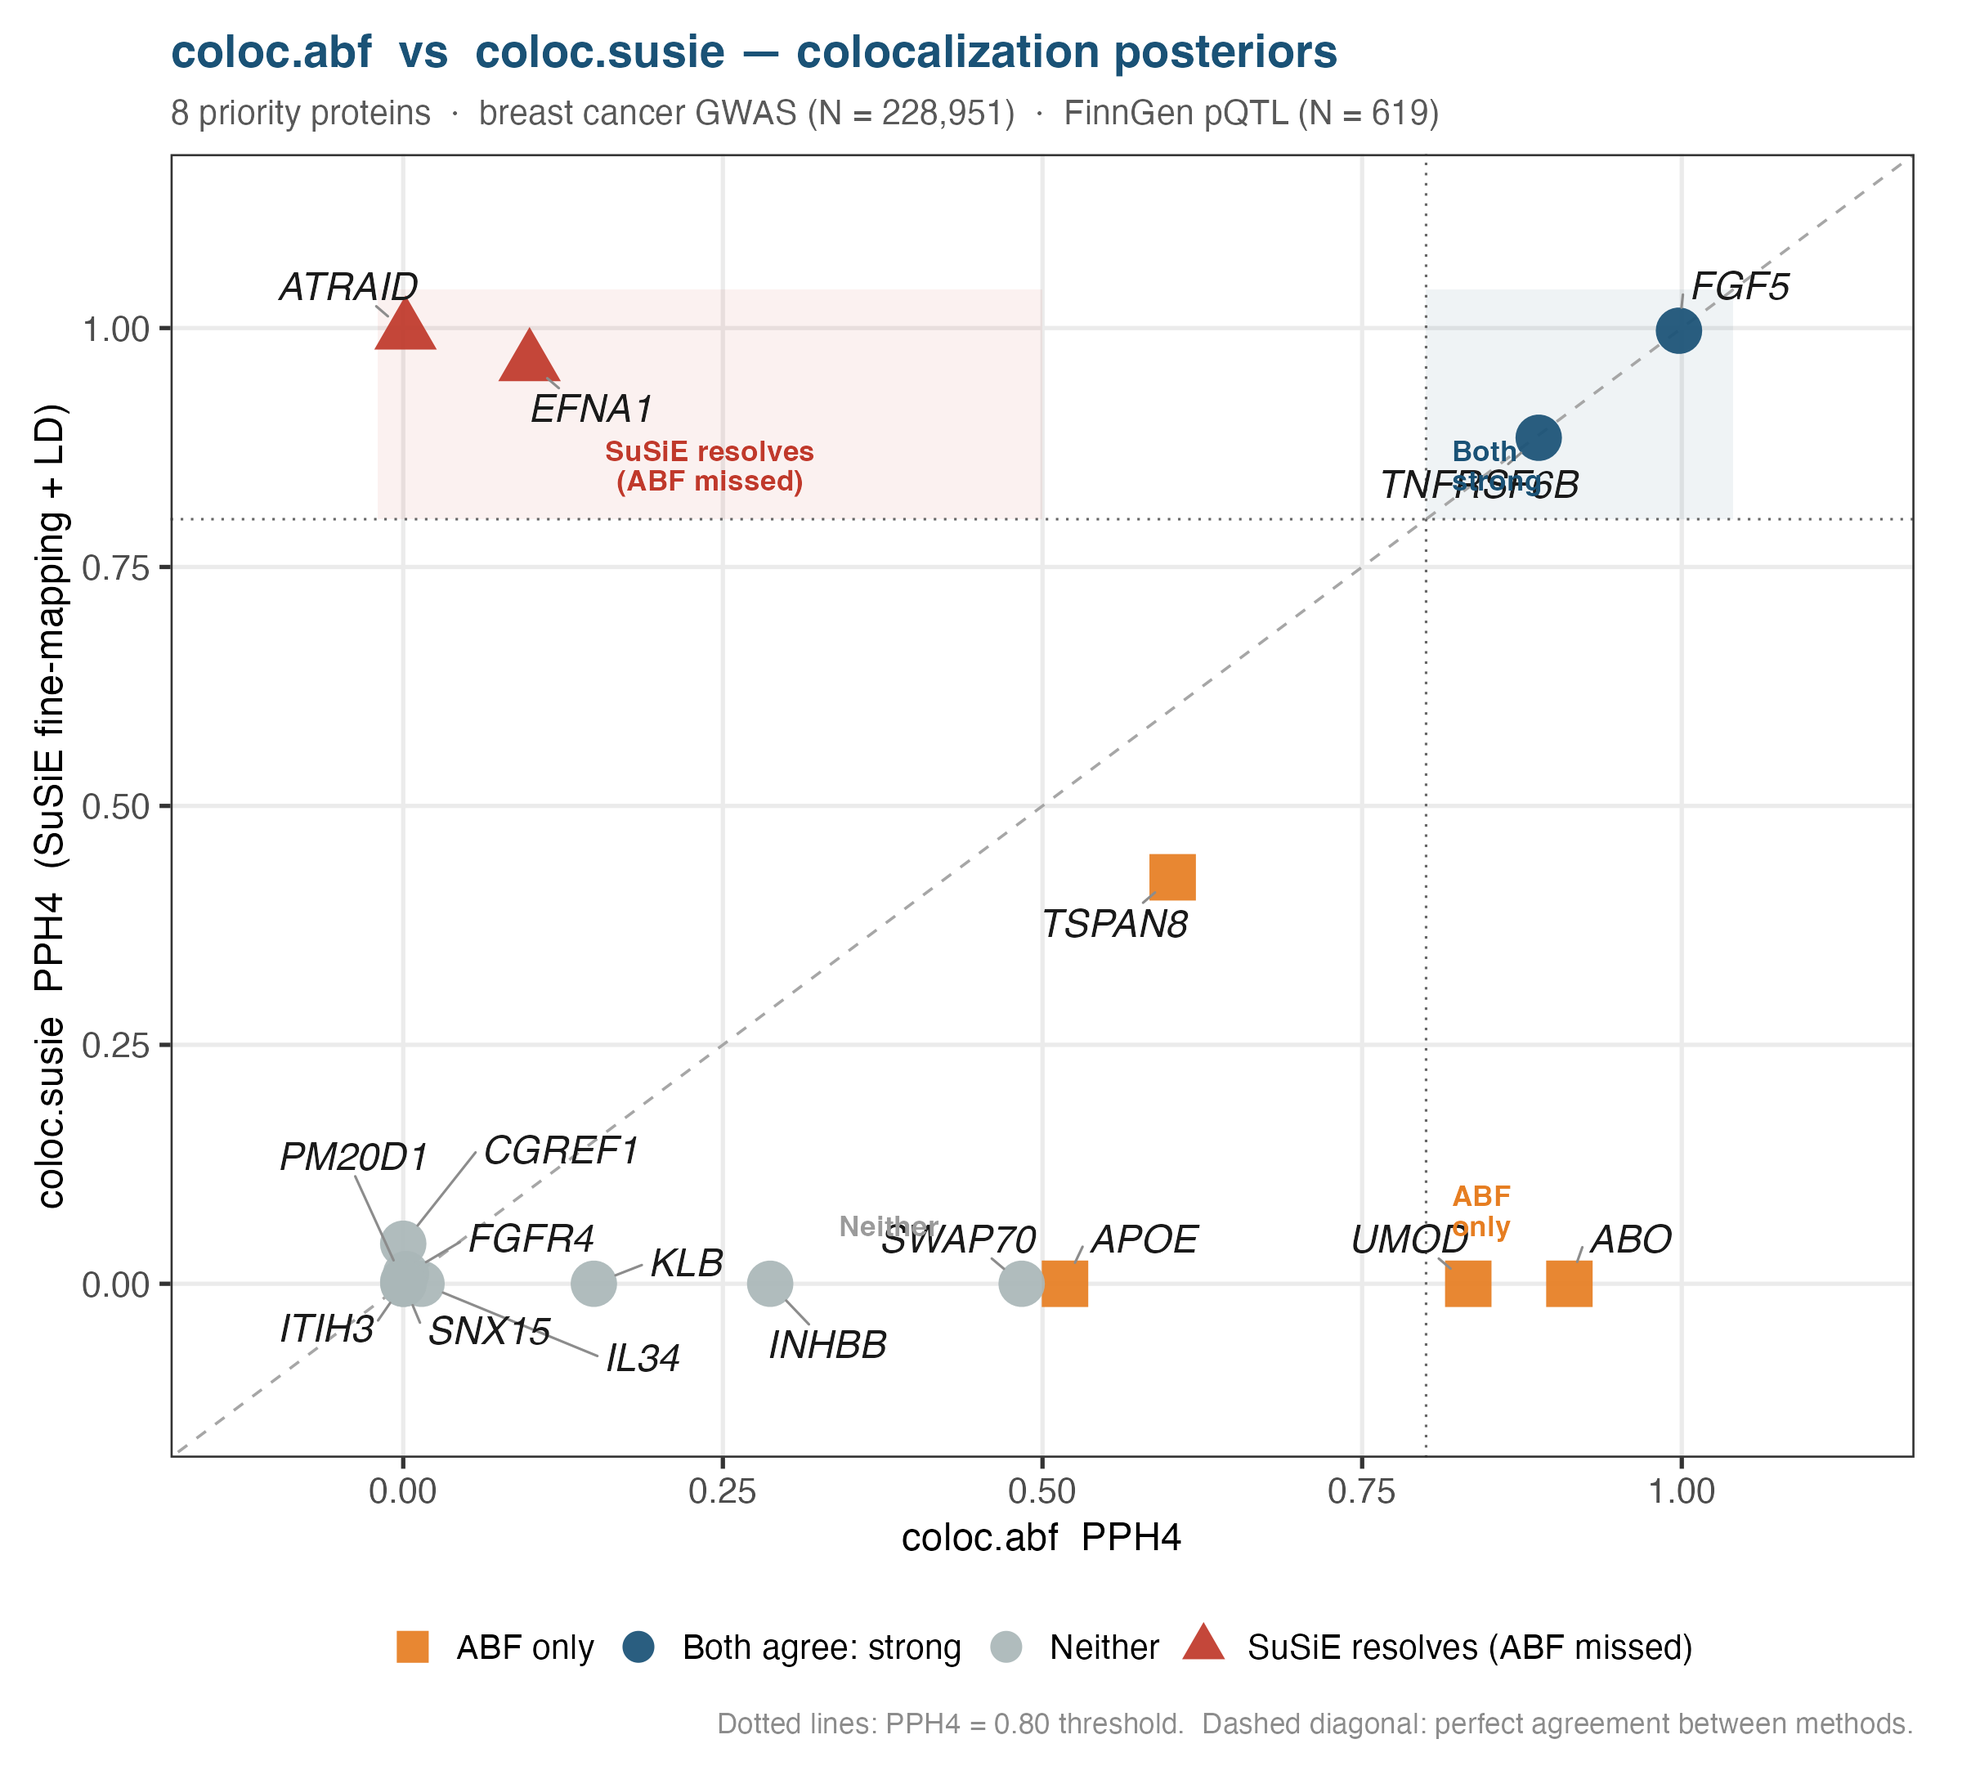
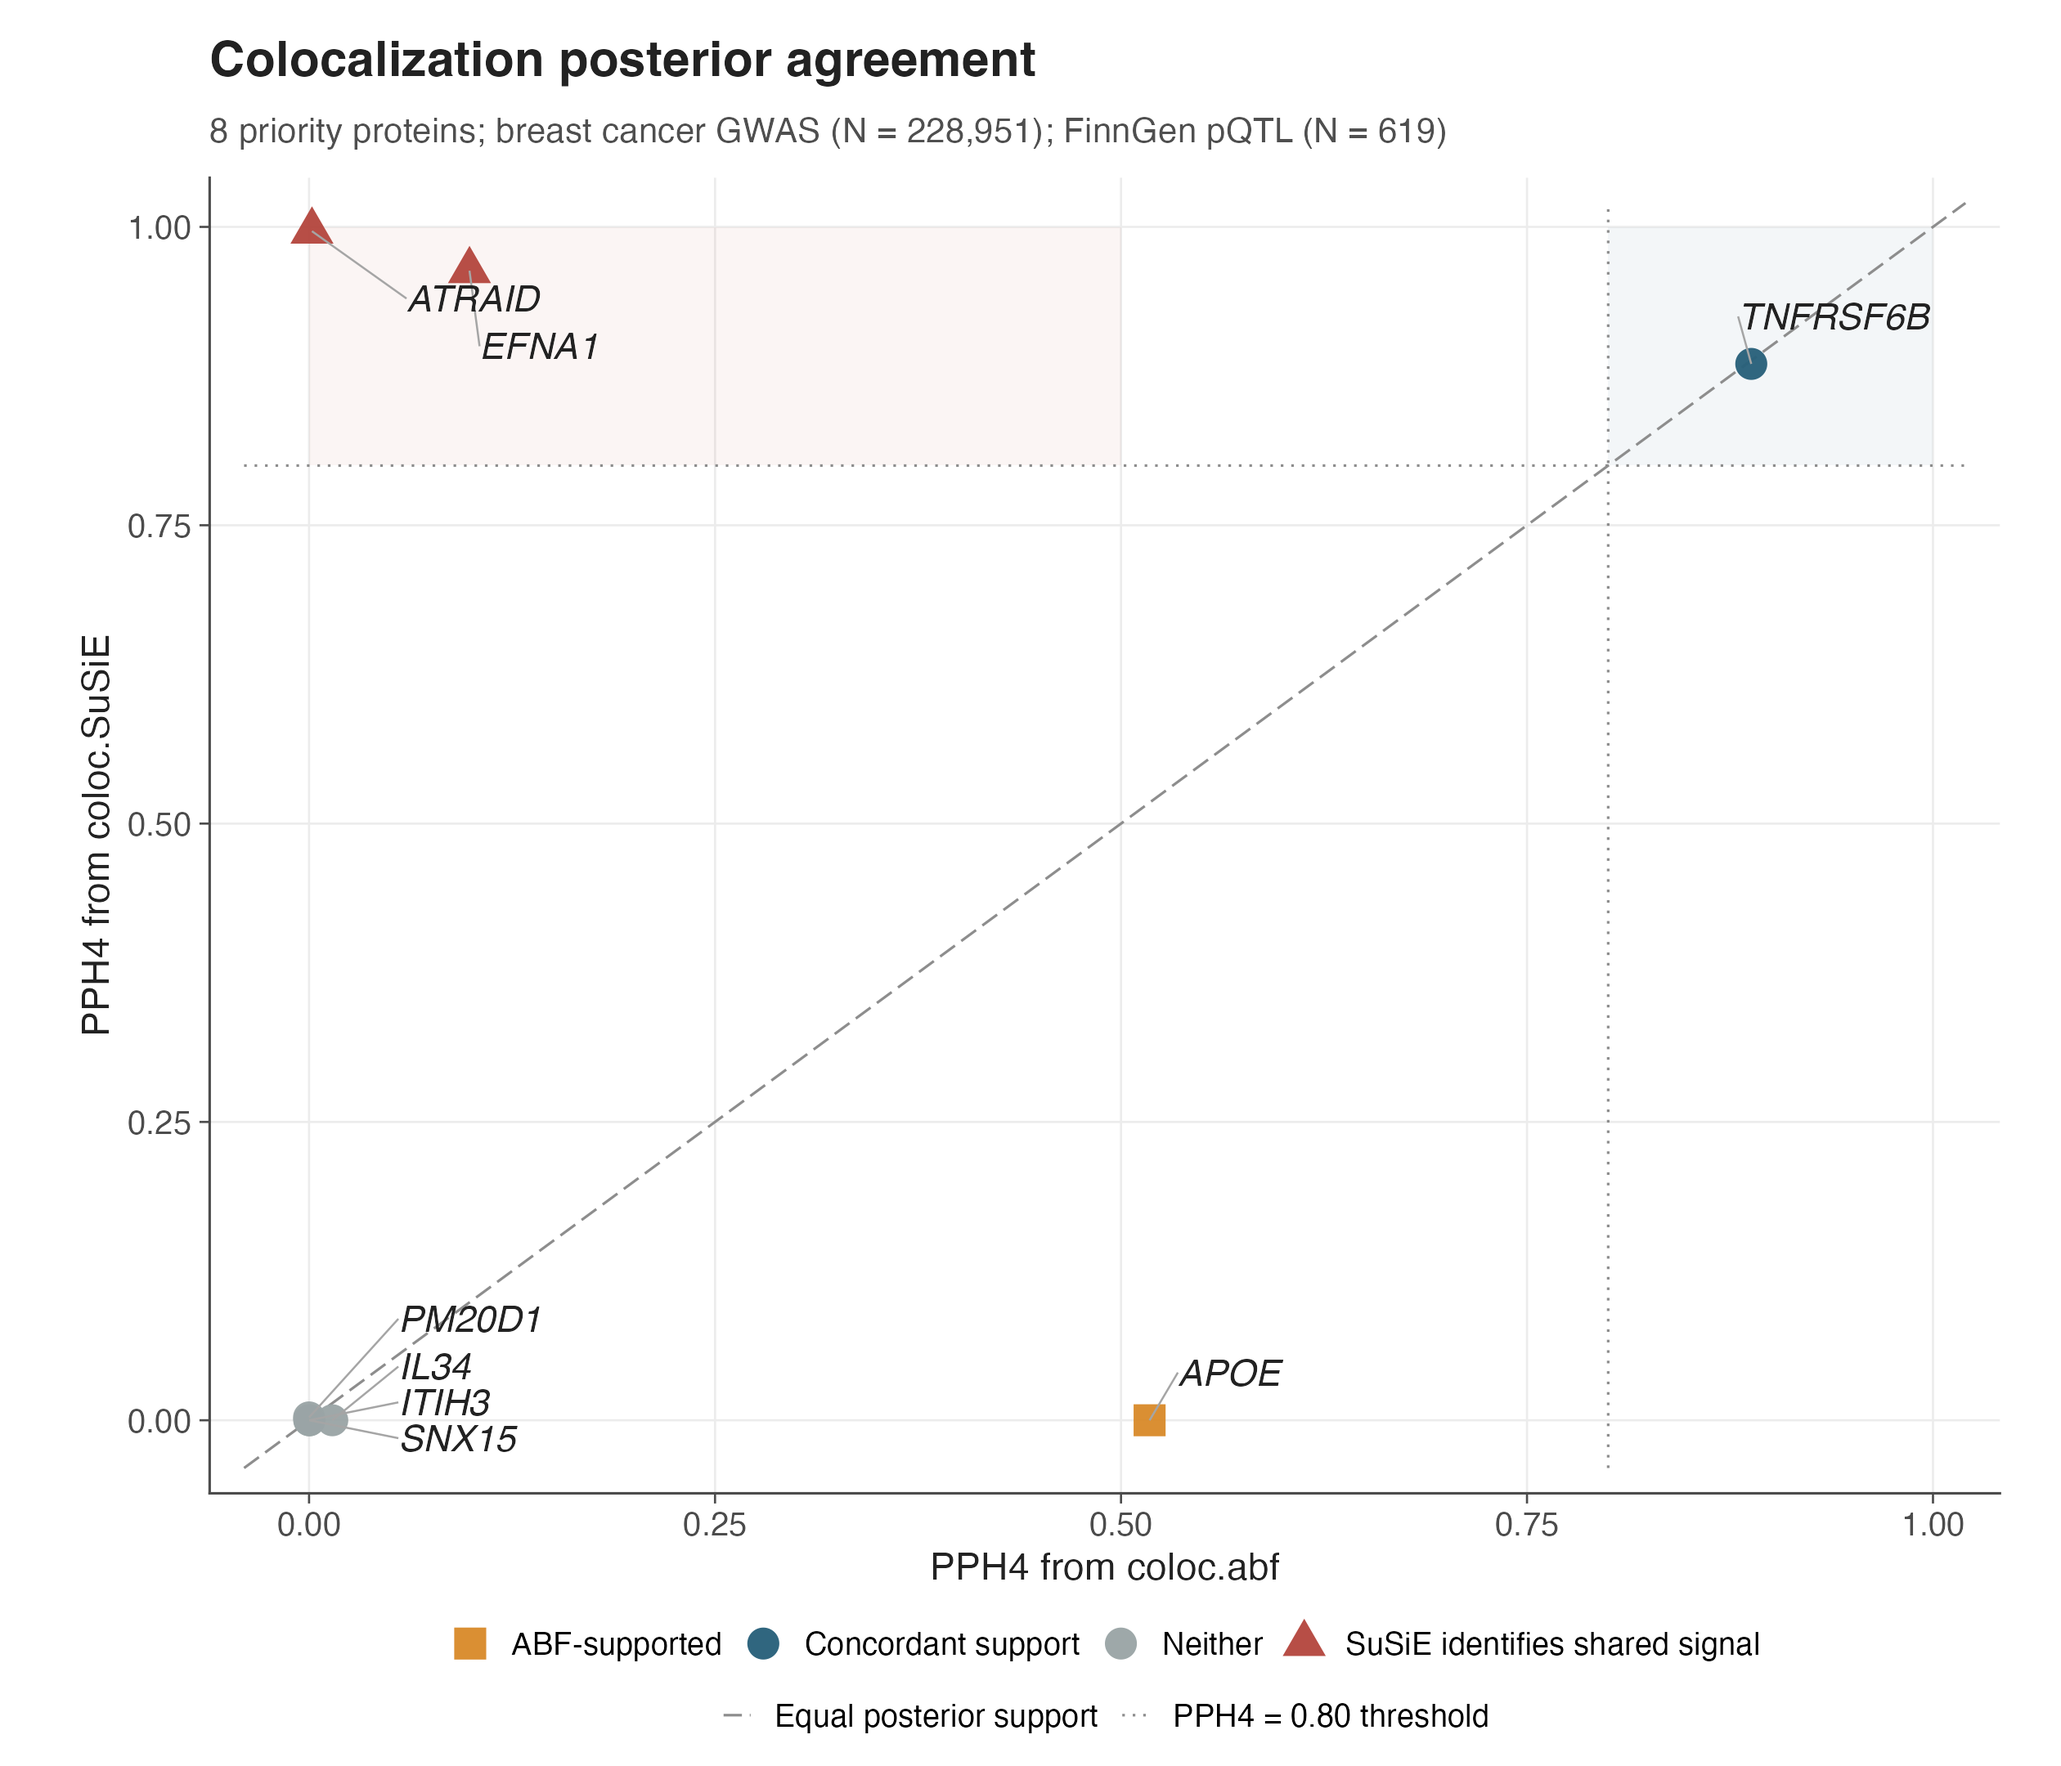
Update README and CITATION for manuscript submission

diff --git a/README.md b/README.md
@@ -12,6 +12,8 @@
 
 This repository contains analysis code, summary outputs, and manuscript-supporting materials for a proteome-wide Mendelian randomization study integrating circulating protein genetics, cancer GWAS, metabolite colocalization, mediation MR, gene-level triangulation, and tumour-context annotation.
 
+Prior proteome-wide MR studies have established the value of plasma protein genetics for breast cancer target prioritization [4,5]. The present study extends that literature by moving beyond association-level discovery toward multi-layer evidence triangulation, integrating MR with fine-mapping-aware colocalization, MAGMA gene-level support, metabolite colocalization and mediation, cross-platform pQTL sensitivity analyses, and tumour-context annotation. This distinction is important because genetically proxied protein–cancer associations may arise from linkage disequilibrium, assay-specific pQTL architecture, or pleiotropic regional effects. The evidence hierarchy used here was therefore designed to separate protein candidates with stronger shared genetic support from secondary signals supported by gene-level, replication, metabolic, or tumour-context evidence alone.
+
 The study prioritizes genetically supported circulating protein and metabolic pathways associated with breast cancer susceptibility, with endometrial and ovarian cancers included as hormone-related comparator outcomes.
 
 The analysis combines:
